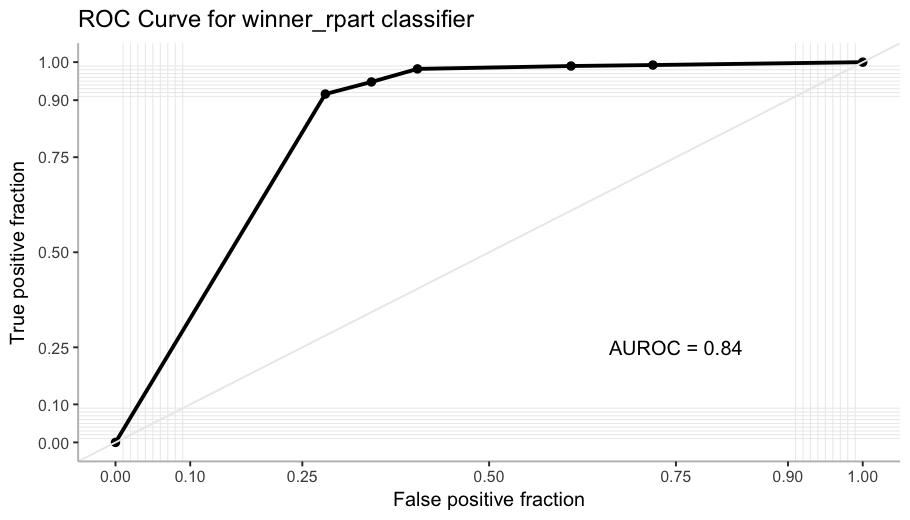
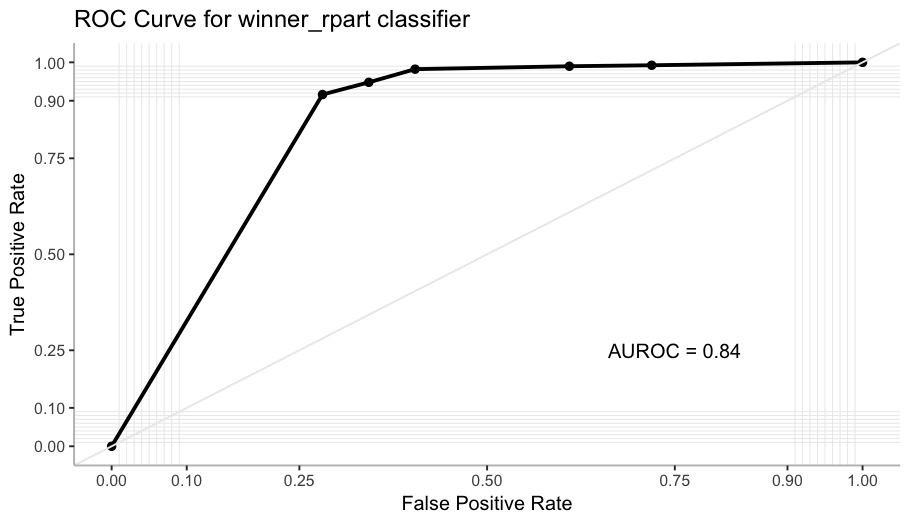
Add RLadies and NASA Datanauts in tags and about, and minor changes to trump post.

diff --git a/_posts/2017-01-23-what-demographics-voted-for-trump.md b/_posts/2017-01-23-what-demographics-voted-for-trump.md
@@ -10,7 +10,7 @@ I examine the characteristics of the population that made Donald Trump the 45th 
 <!--more-->
 It's been a few days since we witnessed the inauguration of Donald Trump as the 45th President of the United States, whose victory over Hillary Clinton came as a shock for most people. I'm not much into politics (and it is not even my country!) but this result really caught my attention, so I wanted to dig a little about the population's characteristics that made him the winner of the Election. 
 
-I've been studying Machine Learning for a while now, and a couple of months ago I discovered the *awesome* `tidiverse` world (I can't believe the way I used to do things :$), so I thought this was a great opportunity to test my skills. In addition to that, English is not my mother tongue so in this first post I am facing major challenges! If you see something improvable, not clear o plainly wrong, please leave a comment or [mention me on Twitter](https://twitter.com/intent/tweet?user_id=114258616).
+I've been studying Machine Learning for a while now, and a couple of months ago I discovered the *awesome* `tidiverse` world (I can't believe the way I used to do things :$), so I thought this was a great opportunity to test my skills. In addition to that, I'm not a native English speaker so in this first post I am facing major challenges! If you see something improvable, not clear o plainly wrong, please leave a comment or [mention me on Twitter](https://twitter.com/intent/tweet?user_id=114258616).
 
 What I do here is estimate a Classification Tree (CART) to find an association between the winner in the county and its socio-demographic characteristics.
 
@@ -261,13 +261,17 @@ rpart.plot(winner_rpart, main = "Winner candidate in county",
 
 Starting from the top (the root), the tree splits the population in two subsets according to the question asked (the variable and the cut), and it does the same for every node. If the county meets the criteria it is classified to the left, and otherwise to the right. In this case the first split indicates that if the county has less than 50% `white_alone` population, it is classified to the left node (only 12% of the counties), and the rest goes to the right (80% of the counties). The higher the percentage of counties that Trump won in the node, the redder the node. Nodes associated with Clinton are bluer.
 
-Apparently *race* is one of the most important characteristic determining the winner candidate. 3 over the 5 splits include race (we will know more about this when we check the *Variable Importance* later on). And there is also a variable referring the housing structure and other about education. According to this tree, for counties with less than 50% `white_alone` population, the winner was also determined by the amount of housing units in multi-unit structures (maybe an urbanization's proxy?) and the percentage of 25 years old or older persons holding a Bachelor's degree or higher. 
+Apparently *race* is one of the most important characteristic determining the winner candidate. 3 over the 5 splits include race (we will know more about this when we check the *Variable Importance* later on). And there is also a variable referring the *housing structure* and other about *education*. 
+
+One key feature of CART is that it allows different characteristics to be relevant for each node resulted from a split. In this case, for counties with less than 50% `white_alone` population, the winner was also determined by the amount of housing units in multi-unit structures (maybe an urbanization's proxy?) and the percentage of 25 years old or older persons holding a Bachelor's degree or higher. But for the rest of the counties, it was determined by other racial characteristics. This is because the algorithm partitions the feature space in two using linear parallel to the axis decision boundaries, and for each generated region does the same, over and over.
+
+This can be revealing, uncovering underlying interactions of variables for different groups, harder to discover using other methods.
 
 # Performance Evaluation
 
-Now I evaluate how good is this model. Prior to this post I wouldn't pay any extra attention to the usage of different measures taking into account how unbalanced the data was. There are a lot of measures to evaluate the fit, I explore some of them prioritizing the ones that explicitly deal with unbalanced classes.
+Now I evaluate how good this model is. Prior to this post I wouldn't pay any extra attention to the usage of different measures taking into account how unbalanced the data was. There are a lot of measures to evaluate the fit, I will explore some of them prioritizing the ones that explicitly deal with unbalanced classes.
 
-When I do this evaluations, I do them over the `test` sample, otherwise would be like cheating!
+This evaluations should always be done over the `test` sample, otherwise it would be like cheating!
 
 ## Missclassification Error
 
@@ -290,7 +294,7 @@ test %>% summarize(missc_error = mean(error))
 ## 1  0.07824223
 ```
 
-But since I've been doing my research, it became clear that in this case I could not treat this measure without further considerations.
+But since I've been doing my research, it has become clear that in this case I could not treat this measure without further considerations.
 
 Let's suppose I have a model that predicts for all cases Trump as the winner. It would have a missclassification error of 15%, *not so bad!* But it is definitely not a great model: it would be 100% accurate for predicting counties where Trump won, but it would be wrong for *all* of the counties where Clinton won. This is known as the *Accuracy Paradox*, and that is why we need some alternatives to measure how good is this tree in predicting the county's winner.
 
@@ -335,15 +339,15 @@ test %>%
 ## 
 ```
 
-Just looking into this matrix we can have some clues on how well is the classifier for each class. Particularly I want to look closer at the `Kappa` statistic, because it specifically considers the unbalance between classes.
+Just looking into this matrix we can have some clues on how good is the classifier for each class. Particularly I want to look closer at the `Kappa` statistic, because it specifically considers the unbalance between classes.
 
-`Kappa` measures the accuracy of the classifier *corrected by the probability of agreement by chance*. There is not much consensus on the magnitude of `Kappa` to consider it low or high, but it can be interpreted as how separate it is the obtained result from chance. In this case the *expected accuracy* (the one that occurs by chance) is 77% and the perfect accuracy is of course 100%. There is a gap of 23%, and this classifier closes this gap by 66% of it (15% of improvement!). The higher the `Kappa` is, the better. Some sustain that a value of `Kappa` larger than 60% means a good agreement, so we are OK!   
+`Kappa` measures the accuracy of the classifier *corrected by the probability of agreement by chance*. There is not much consensus on the magnitude of `Kappa` to consider it low or high, but it can be interpreted as how separate it is the obtained result from chance. In this case the *expected accuracy* (the one that occurs by chance) is 77% and the perfect accuracy is of course 100%. There is a gap of 23%, and this classifier closes this gap by 66% of it (15% of improvement!). The higher the `Kappa`, the better. Some sustain that a value of `Kappa` larger than 60% means a good agreement, so we are OK!   
 
 ## ROC Curve and AUROC
 
 To complement the performance evaluation, I check the `ROC curve`. It plots the *True Positive Rate* against the *False Positive Rate* across many different thresholds of predicted probability. As we are evaluating a tree with only 6 final nodes, there is a limited amount of thresholds. (Trying to simplify this explanation, I came across [this video](http://www.dataschool.io/roc-curves-and-auc-explained/) that is very clear if you want to go deeper)
 
-This measure is great for classification analysis, and is particularly useful here because it is not affected by unbalanced classes. Luckily I came across this great `ggplot2` extension, `plotROC`, and now I can use my favorite tools to create a pretty nice plot!
+This measure is great for classification analysis, and it is particularly useful here because it is not affected by unbalanced classes. Luckily I came across this great `ggplot2` extension, `plotROC`, and now I can use my favorite tools to create a pretty nice plot!
 
 
 ```r
@@ -357,21 +361,21 @@ roc <- test %>%
   geom_roc(labels = FALSE)
 
 roc +
-style_roc(theme = theme_bw) +
+style_roc(theme = theme_bw, xlab = "False Positive Rate", ylab = "True Positive Rate") +
 theme(panel.grid.major = element_blank(), panel.border = element_blank(),
       axis.line = element_line(colour = "grey")) +
-ggtitle("ROC Curve for winner_rpart classifier") + 
+ggtitle("ROC Curve for winner_rpart classifier") +
 annotate("text", x = .75, y = .25, 
          label = paste("AUROC =", round(calc_auc(roc)$AUC, 2)))
 ```
 
 <img src="/figure/source/what-demographics-voted-for-trump/2017-01-23-what-demographics-voted-for-trump/roc_curve-1.png" title="plot of chunk roc_curve" alt="plot of chunk roc_curve" style="display: block; margin: auto;" />
 
-The `AUROC` (*A*rea *U*nder the *ROC* curve) computes the probability that the classifier ranks higher a positive instance than a negative one. (If you want to get deeper into this, I highly recommend [this Tom Fawcett paper](http://tomfawcett.info/papers/ROC-PRL.pdf))
+The `AUROC` (*A*rea *U*nder the *ROC* curve) computes the probability that the classifier ranks higher a positive instance than a negative one. (If you want to go deeper into this, I highly recommend [this Tom Fawcett paper](http://tomfawcett.info/papers/ROC-PRL.pdf))
 
 # Warning about Classification Trees instability
 
-When you use this kind of Machine Learning algorithm you should be aware that small changes in the data can change the tree. Next there is a second tree I generated using the same parameters than before, but changing the seed to do the sampling.
+When you use this kind of Machine Learning algorithm you should be aware that small changes in the data can change the tree. Find below a second tree generated by using the same parameters than before, but changing the seed to do the sampling.
 
 
 ```r
@@ -398,7 +402,7 @@ rpart.plot(winner_rpart_2, main = "Winner candidate in county",
 
 Although it is not completely different, it changes a bit. 
 
-You can fight this using some ensemble method such as *Bagging*, *Random Forest* or *Boosting*, but as I want to be able to interpret the results, this other methods are not as visual as this one.
+You can fight this using some ensemble method such as *Bagging*, *Random Forest* or *Boosting*, but as I'm particularly interested in easily visualizing the decision rules and potentially finding different patterns for different groups, I find this method a better fit for this particular problem. 
 
 Since this algorithm is very sensitive to the `train` and `test` partition, I'm interested in having an estimation of the *accuracy* for *this kind of specification of the tree* and not only for the specific one I found. This can be achieved by the K-fold Cross-Validation.
 
@@ -406,7 +410,7 @@ Since this algorithm is very sensitive to the `train` and `test` partition, I'm 
 
 This method divides randomly the data into `k` equally sized subsets called *folds*. A tree is estimated in `k-1` of them and the performance is evaluated in the fold left behind. This is made `k` times, until each fold is used for validation exactly one time. 
 
-This was a non that straight forward thing for me to do. I wanted the `caret` package to calculate the K-fold Cross Validation accuracy estimation, but apparently most people use `caret::train` to find the parameter `cp` at the same time. I just wanted to estimate the accuracy associated with an already specified model (I've already estimated the `cp`). Finally I found the way, specifying `tuneGrid = expand.grid(cp = cp)`.
+This was a non a straightforward thing for me to do. I wanted the `caret` package to calculate the K-fold Cross Validation accuracy estimation, but apparently most people use `caret::train` to find the parameter `cp` at the same time. I just wanted to estimate the accuracy associated with an already specified model (I've already estimated the `cp`). Finally I found the way, specifying `tuneGrid = expand.grid(cp = cp)`.
 
 
 ```r
@@ -463,5 +467,5 @@ This was my first approach to the subject, I am already doing some extra analysi
 
 If you made it until here: **thank you!** I tried to keep it simple and intuitive, covering all relevant aspects when estimating this kind of models. The R Markdown I used to generate this post is [available here](https://github.com/d4tagirl/d4tagirl.com/blob/master/_source/what-demographics-voted-for-trump/2017-01-23-what-demographics-voted-for-trump.Rmd).
 
-If you see room for improvement or simply want to share something, please let me know leaving your comments here or [mentioning me on Twitter](https://twitter.com/intent/tweet?user_id=114258616) :)
+If you see room for improvement or simply want to share something, please let me know by leaving your comments here or [mentioning me on Twitter](https://twitter.com/intent/tweet?user_id=114258616) :)
 

diff --git a/about.md b/about.md
@@ -12,8 +12,11 @@ I was lucky to start working there when the *Data & Analytics* team was getting 
 
 From there on it was all about growth for me: the company acquired the biggest credit bureau in Paraguay and in that process I was the Analytics team leader for both countries, recruiting and training the local teams, building relationships with local clients and developing the first Paraguay Bureau Risk Score deployed in 2016 as part of the re branding strategy of the bureau in the country.
 
-Everything was pretty good, but a felling that *something was missing* started growing on me... I was building a career in a very big company (which took me a great deal of work) but technically I was falling behind (there's only so much you can do with credit data that clients are willing to pay for). So I was very good at solving a very specific kind of problems, but was missing a whole other world in Data Science. I struggled with that feeling until I realized I was not happy anymore and I had to make a change. So *I quit*. I can say now that despite being one of the most difficult decisions I've ever made, it was also one of the greatest: I had my enthusiasm back! And man, wasn't I missing it!
+Everything was pretty good, but a feeling that *something was missing* started growing on me... I was building a career in a very big company (which took me a great deal of work) but technically I was falling behind (there's only so much you can do with credit data that clients are willing to pay for). So I was very good at solving a very specific kind of problems, but was missing a whole other world in Data Science. I struggled with that feeling until I realized I was not happy anymore and I had to make a change. So *I quit*. I can say now that despite being one of the most difficult decisions I've ever made, it was also one of the greatest: I had my enthusiasm back! *And man, wasn't I missing it!*
 
-So this is me, and here I am: switching gears, exploring the many ways data science can help telling compelling stories, focusing on Machine Learning and R (for now), starting my blog where I plan to share whatever it is that I'm playing with at the moment. And *loving every minute!* If additionally I can contribute to inspire others like me to follow their gut, even better!
+From that renovation a lot of crazy things came I had never thought I was capable of. Among other *bold moves*, in less than four months I built [this blog](https://d4tagirl.com/), I joined the [R-Ladies global community](https://rladies.org/) as one of the organisers for the [Buenos Aires chapter](https://www.meetup.com/rladies-buenos-aires/), and I got accepted to join the out-of-this-world [NASA Datanaut Program](https://open.nasa.gov/explore/datanauts/) a few days ago. In this short period of time I have exposed myself more than *ever*, but I feel this is what I am supposed to be doing. This makes me *really really happy*.
+
+So this is me, and here I am: switching gears, exploring the many ways Data Science can help telling compelling stories, focusing on Machine Learning and R (for now), starting my blog where I plan to share whatever it is that I'm playing with at the moment. And *loving every minute!* If additionally I can contribute to inspire others like me to follow their gut, even better!
 
 I hope you enjoy my posts as much as I enjoy writing them, and please feel welcome to leave your comments and [mention me on Twitter](https://twitter.com/intent/tweet?user_id=114258616) :) 
+
